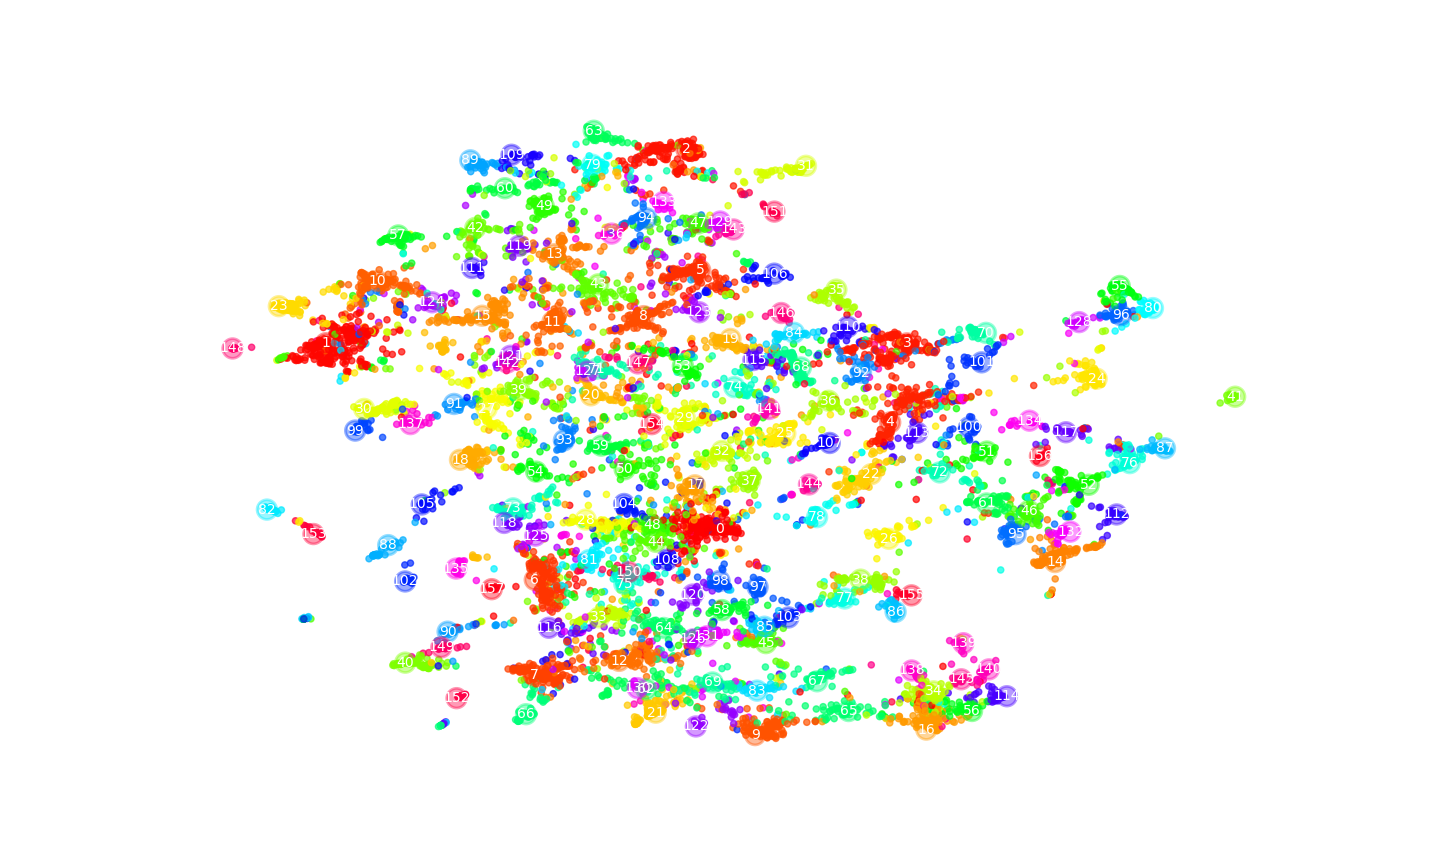
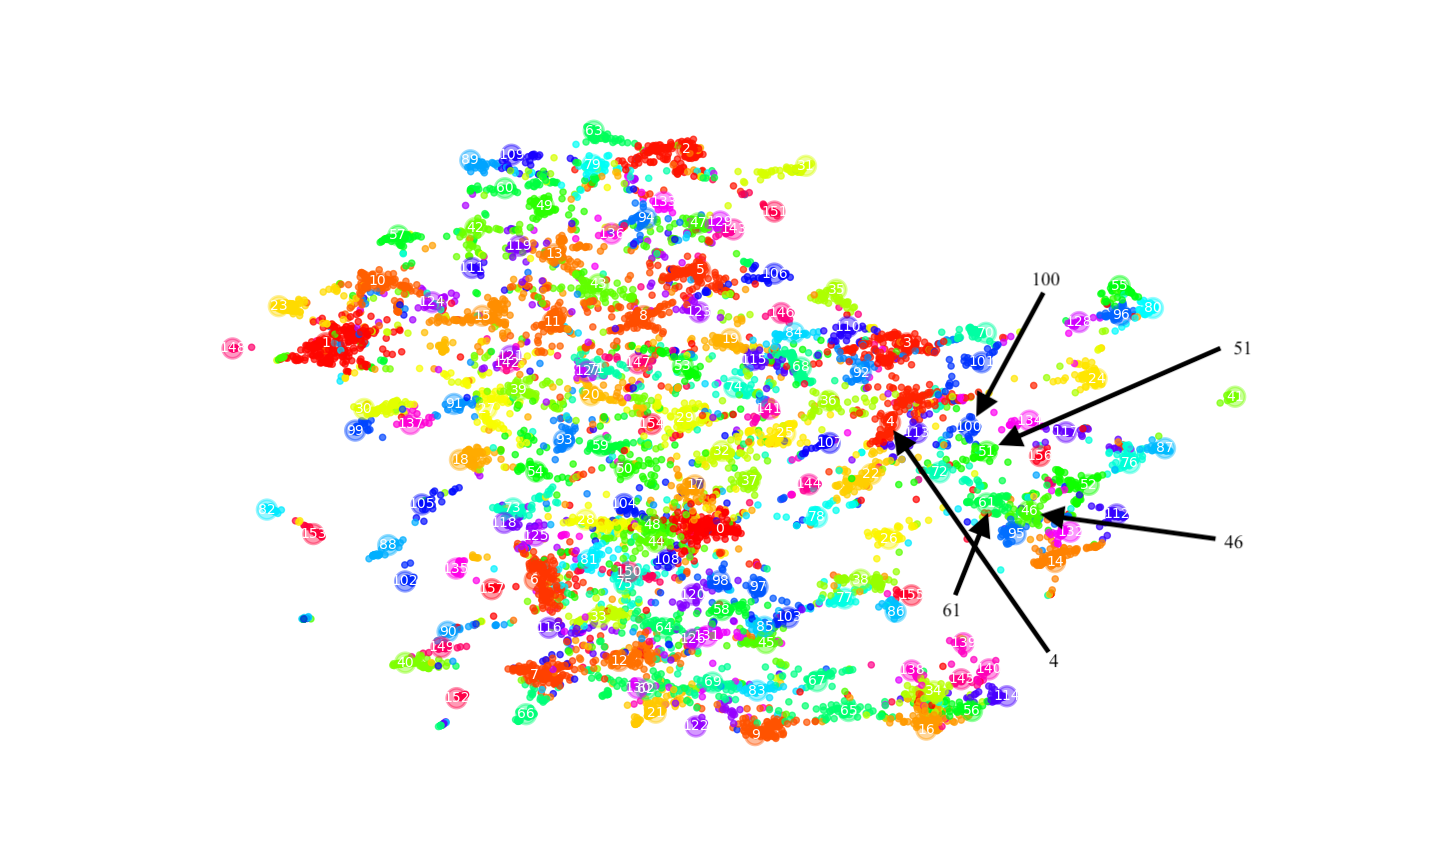
added some arrows to main big plot and then another paragraph about HUGO shortcodes for producing a Medium.com-like zoom features on images

diff --git a/content/posts/2022-07-blank-top2vec-topic-modeling.md b/content/posts/2022-07-blank-top2vec-topic-modeling.md
@@ -122,4 +122,6 @@ We can see towards the bottom right side of the plot that some of our key topics
 
 ![zeroed_in_umap_plot](/images/imgforblogposts/post_17/zeroing_in_on_topics_51_100_46.png)
 
+(For both images one can right-click 'em, open in a new tab and then zoom in—I'll have to see if I can find a nice HUGO shortcode that would do this without having to load the image in a new tab ...)
+
 I would say that after all of the model building is completed (which, again, did take quite a while given the rather large size of our dataset), the steps needed are super quick and simple—and the ease with which all of this happens after model building is nothing short of really awesome. I am greatly looking forward to playing around with this library on all kinds of different datasets, that's for sure! (As Dr. Mattingly noted in his [second video]((https://www.youtube.com/watch?v=rmWI3xu9SII)), there are some parameters in Top2Vec [specifically the ["speed" and "workers"](https://top2vec.readthedocs.io/en/latest/api.html) ones] that could potentially speed up different parts of the process) that I should tweak and play around a little bit to see what the effects are in the final visualizations and clustering of topics. More to come on this front, to be sure!
